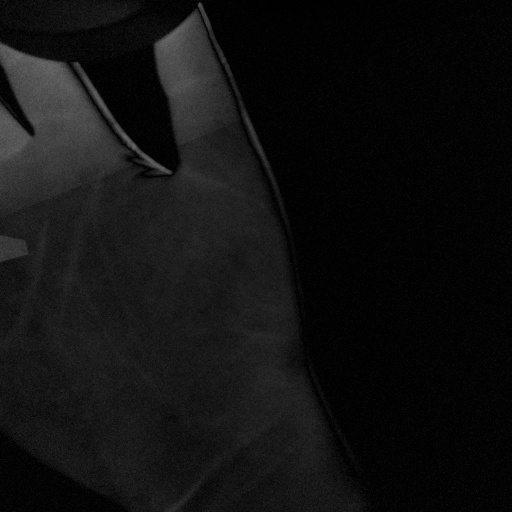
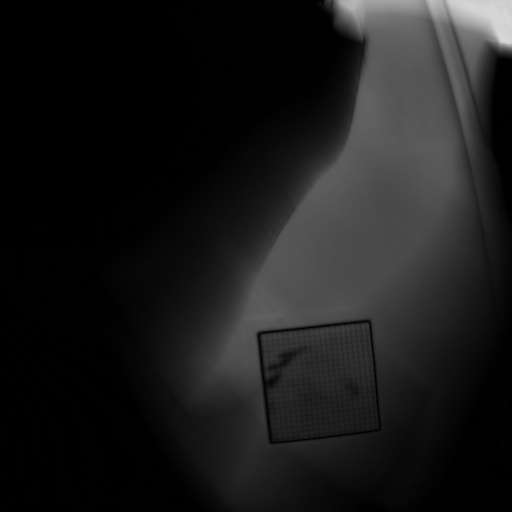
10.05.2023

diff --git a/camera.py b/camera.py
@@ -1,33 +1,39 @@
 from picamera import PiCamera
+from picamera.array import PiYUVArray
 from time import sleep
 import numpy as np
 import cv2
 import RPi.GPIO as GPIO
+from io import BytesIO
 
 
 def capture_and_diff(
-        *shutter_speed, num_photos=50, resolution=(1024, 1024), iso=800, wait_time=1, ):
+        *shutter_speed, num_photos=50, wait_time=1, resolution=(4056, 3040), iso=100):
     # 读取相机配置
+    # camera_preview()
     GPIO.setmode(GPIO.BCM)
     GPIO.setup(17, GPIO.OUT)
     camera = PiCamera()
     camera.iso = iso
+    camera.sensor_mode = 3  # Set sensor mode for 12-bit capture
     camera.resolution = resolution
+    camera.framerate = 10
+    camera.raw_format = 'yuv'  # Capture YUV data
     # Wait for the automatic gain control to settle
     sleep(2)
     # Now fix the values
+    # exposure time
     if not shutter_speed:
         camera.shutter_speed = camera.exposure_speed
     else:
         camera.shutter_speed = int(shutter_speed[0])
+
     camera.exposure_mode = 'off'
     print(camera.shutter_speed)
-     
 
     g = camera.awb_gains
     camera.awb_mode = 'off'
     camera.awb_gains = g
-    print(g)
     # 设置差异图像的累加器
     diff_accumulator = np.zeros(
         (camera.resolution[1], camera.resolution[0]), dtype=np.float32)
@@ -37,29 +43,46 @@ def capture_and_diff(
         # 拍摄第一张照片
         GPIO.output(17, GPIO.HIGH)
         sleep(wait_time)
-        prev_image = np.empty(
-            (camera.resolution[1], camera.resolution[0], 3), dtype=np.uint8)
-        camera.capture(prev_image, format='bgr')
-        gray1 = cv2.cvtColor(prev_image, cv2.COLOR_BGR2GRAY)
+
+        # Capture YUV data
+        yuv_data = np.empty(
+            (camera.resolution[1] * 3 // 2, camera.resolution[0]), dtype=np.uint8)
+        camera.capture(yuv_data, format='yuv', use_video_port=False)
+
         print("the", i, "picture, power off")
+        # Convert YUV data to grayscale using cv2.cvtColor
+        gray1 = cv2.cvtColor(yuv_data, cv2.COLOR_YUV2GRAY_I420)
+        # stream = BytesIO()
+
+
+        # camera.capture(stream, format='raw')  # Capture RAW data
+        # # Convert to numpy array
+        # data = np.frombuffer(stream.getvalue(), dtype=np.uint16)
+        # # Reshape array to match resolution
+        # data = data.reshape((camera.resolution[1], camera.resolution[0]))
+
+        # # Demosaic RAW Bayer data
+        # rgb = cv2.cvtColor(data, cv2.COLOR_BayerRG2RGB_EA)
+
+        # # Convert to grayscale
+        # gray1 = cv2.cvtColor(rgb, cv2.COLOR_RGB2GRAY)
+        cv2.imwrite('gray1.jpg', gray1)
         # 等待一段时间
-        sleep(wait_time)
 
         # 拍摄第二张照片
         GPIO.output(17, GPIO.LOW)
         sleep(wait_time)
-        current_image = np.empty(
-            (camera.resolution[1], camera.resolution[0], 3), dtype=np.uint8)
-        camera.capture(current_image, format='bgr')
-        gray2 = cv2.cvtColor(current_image, cv2.COLOR_BGR2GRAY)
+        camera.capture(yuv_data, format='yuv', use_video_port=False)
         print("the", i, "picture, power on")
-        sleep(wait_time)
+        # Convert YUV data to grayscale using cv2.cvtColor
+        gray2 = cv2.cvtColor(yuv_data, cv2.COLOR_YUV2GRAY_I420)
+        cv2.imwrite('gray2.jpg', gray2)
+
         # 计算两张照片的差异图像
         diff_image = cv2.absdiff(gray1, gray2)
 
         # 将差异图像叠加到累加器中
         diff_accumulator += diff_image.astype(np.float32)
-
     # 计算平均差异图像
     average_diff_image = (diff_accumulator / num_photos).astype(np.uint8)
     cv2.imwrite("average_diff_image.jpg", average_diff_image)

diff --git a/GUI_v2.0.py b/GUI_v2.0.py
@@ -7,9 +7,8 @@ from tkinter import *
 from tkinter import ttk
 from PIL import Image
 from PIL import ImageTk
-import webbrowser
 
-from picamera import PiCamera
+import picamera 
 import time
 import numpy as np
 import cv2
@@ -67,12 +66,16 @@ class Application(Frame):
 
         # Create the exit button
         self.btnQuit = Button(self, text="Quit", height=2, width=26,
-                              font=(10),command=root.destroy)
+                              font=(10),command=root.destroy)\
+                              
+        self.camera = Button(self, text="Test Camera", height=2, width=26,
+                              font=(10),command=self.camera_preview)
 
         # Use Grid Geometry Manager to place widgets
         self.label01.grid(column=0,row=0,columnspan=3,pady=40)
         self.btnStart.grid(column=2,row=5,columnspan=2,pady=20)
-        self.btnQuit.grid(column=2,row=6,columnspan=2,sticky=S,pady=20)
+        self.camera.grid(column=2,row=6,columnspan=2)
+        self.btnQuit.grid(column=2,row=7,columnspan=2,sticky=N)
         self.OptM.grid(column=3,row=1,columnspan=2)
         Label(self, text="Operation Mode: ").grid(column=2,row=1,sticky=W,pady=20)
         self.entry_pairs.grid(column=3,row=2)
@@ -87,7 +90,7 @@ class Application(Frame):
               ", Zhengdao Zhou, Bhargav Ashok, Balaji R, Andrew Leong",
               fg="Grey", font=("Times", 8)).grid(column=0,row=7,sticky=W)
         
-        self.rowconfigure(6,weight=1)
+        self.rowconfigure(7,weight=1)
 
 
     def Entry_able(self,root):
@@ -104,16 +107,27 @@ class Application(Frame):
     def Start(self):
         global photo_diff
         if self.OperationMode.get() == "Auto":
-            capture_and_diff(wait_time=1, iso=800)
+            capture_and_diff()
         else:
             capture_and_diff(num_photos=int(self.entry_pairs.get()), 
-                                iso=int(self.entry_iso.get()), wait_time=1, 
+                                iso=int(self.entry_iso.get()), 
                                 resolution=eval(self.entry_resolution.get()))
         photo_diff = Image.open("average_diff_image.jpg")
         photo_diff = ImageTk.PhotoImage(photo_diff.resize((500, 300)))
         self.label02["image"]=photo_diff
         self.label02.grid(column=0, row=1,columnspan=2,rowspan=6,pady=20)
-
+    
+    def camera_preview(self):
+        with picamera.PiCamera() as camera:
+            # 设置预览分辨率
+            camera.resolution = (500, 300)
+            # 打开预览
+            camera.start_preview(fullscreen=False, window=(7,130,500,300))
+            # 延时
+            time.sleep(5)
+            # 关闭预览
+            camera.stop_preview()
+            
 
 
 if __name__ == "__main__":

diff --git a/camera_class.py b/camera_class.py
@@ -1,0 +1,76 @@
+
+from picamera import PiCamera
+from time import sleep
+import numpy as np
+import cv2
+import RPi.GPIO as GPIO
+from io import BytesIO
+
+
+class Camera_class:
+    def __init__(self, shutter_speed, num_photos, wait_time, iso, resolution, gain):
+        self.num_photos = num_photos
+        self.wait_time = wait_time
+        self.resolution = resolution
+        self.iso = iso
+        self.camera = PiCamera()
+        self.camera.exposure_mode = 'off'
+        self.camera.shutter_speed = shutter_speed
+        self.camera.awb_mode = 'off'
+        self.camera.awb_gains = gain
+        self.capture_and_diff()
+
+    def capture_and_diff(self):
+        # 读取相机配置
+        GPIO.setmode(GPIO.BCM)
+        GPIO.setup(17, GPIO.OUT)
+        # 设置差异图像的累加器
+        diff_accumulator = np.zeros(
+            (self.camera.resolution[1], self.camera.resolution[0]), dtype=np.float32)
+
+        # 拍照并计算差异图像
+        for i in range(self.num_photos):
+            # 拍摄第一张照片
+            GPIO.output(17, GPIO.HIGH)
+            print("wait", self.wait_time, "seconds to power on")
+            sleep(self.wait_time)
+``
+            stream = BytesIO()
+            self.camera.capture(stream, format='raw', bayer=True)
+            stream.seek(0)
+            data = stream.getvalue()
+            print(data)
+            print(len(data))
+            width = self.resolution[0]
+            height = self.resolution[1]
+            img = np.frombuffer(data, dtype=np.uint16).reshape(
+                height, width)
+            gray1 = cv2.cvtColor(img, cv2.COLOR_BAYER_RG2GRAY)
+
+            print("the", i, "picture")
+            print("wait the camera exposure")
+            # 等待一段时间
+            sleep(self.camera.shutter_speed / 1000000)
+
+            # 拍摄第二张照片
+            GPIO.output(17, GPIO.LOW)
+            print("wait", self.wait_time, "seconds")
+            sleep(self.wait_time)
+            stream = BytesIO()
+            self.camera.capture(stream, format='raw', bayer=True)
+            stream.seek(0)
+            data = stream.getvalue()
+
+            width = self.resolution[0]
+            height = self.resolution[1]
+            img = np.frombuffer(data, dtype=np.uint16).reshape(
+                height, width)
+            gray2 = cv2.cvtColor(img, cv2.COLOR_BAYER_RG2GRAY)
+            print("the", i, "picture, power on")
+            print("wait the camera exposure")
+            sleep(self.camera.shutter_speed / 1000000)
+
+            # 计算两张照片的差异图像
+            diff_image = cv2.absdiff(gray1, gray2)
+
+            # 将差异图像叠加到累加

diff --git a/main.py b/main.py
@@ -1,24 +1,46 @@
-from Camera import capture_and_diff
+from camera_class import Camera_class
+from picamera import PiCamera
+from time import sleep
 if __name__ == '__main__':
-    mode = input("auto mode or manual mode: ")
+    print("Calibration process wait 2s")
+    
+    camera = PiCamera()
+    sleep(2)
+    resolution = camera.resolution
+    iso = camera.iso
+    speed = camera.exposure_speed
+    light_gain = camera.awb_gains
+    num = input("input the number of samples: ")
+    num = 50 if num == "" else int(num)
+    wait = input("input waiting time(s): ")
+    wait = 1 if wait == "" else int(wait)
+    print("resolution: ",resolution)
+    print("iso: ", iso)
+    print("speed: ", speed)
+    print("light_gain: ",light_gain)
+    camera.close()
+    mode = input("done, please select auto mode or manual mode: ")
+
     if mode == "auto":
-        wait = int(input("input waiting time: "))
-        iso = int(input("input iso (0 ~ 800): "))
-        capture_and_diff(wait_time=wait, iso=iso)
+        # wait = int(input("input waiting time: "))
+        # iso = int(input("input iso (0 ~ 800): "))
+        Camera_class(shutter_speed=speed,
+                     num_photos=num,
+                     iso=iso,
+                     resolution=resolution,
+                     wait_time=wait,
+                     gain = light_gain)
 
     else:
-        num = input("input the number of samples: ")
-        num = 50 if num == "" else int(num)
+
         iso = input("input iso (0 ~ 800): ")
         iso = 800 if iso == "" else int(iso)
-        wait = input("input waiting time(s): ")
-        wait = 1 if wait == "" else int(wait)
-        res = input("resolution(512,512): ")
-        res = (512,512) if res== "" else eval(res)
-        speed = input("input shutter_speed(us): ")
-        if speed == "":
-            capture_and_diff(
-                num_photos=num, iso=iso, wait_time=wait, resolution=res)
-        else:
-            capture_and_diff(
-                int(speed), num_photos=num, iso=iso, wait_time=wait, resolution=res)
+        res = input("max resolution(4272,2848): ")
+        res = (512, 512) if res == "" else eval(res)
+        speed = input("input shutter_speed(us) max 35000: ")
+        Camera_class(shutter_speed=int(speed),
+                     num_photos=num,
+                     iso=iso,
+                     resolution=res,
+                     wait_time=wait,
+                     gain = light_gain)

diff --git a/main_test.py b/main_test.py
@@ -1,0 +1,25 @@
+from Camera import capture_and_diff
+if __name__ == '__main__':
+
+    mode = input("auto mode or manual mode: ")
+    if mode == "auto":
+        wait = int(input("input waiting time: "))
+        iso = int(input("input iso (0 ~ 800): "))
+        capture_and_diff(wait_time=wait, iso=iso)
+
+    else:
+        num = input("input the number of samples: ")
+        num = 50 if num == "" else int(num)
+        iso = input("input iso (0 ~ 800): ")
+        iso = 800 if iso == "" else int(iso)
+        wait = input("input waiting time(s): ")
+        wait = 1 if wait == "" else int(wait)
+        res = input("resolution(4056, 3040): ")
+        res = (512,512) if res== "" else eval(res)
+        speed = input("input shutter_speed(us) max 100000: ")
+        if speed == "":
+            capture_and_diff(
+                num_photos=num, iso=iso, wait_time=wait, resolution=res)
+        else:
+            capture_and_diff(
+                int(speed), num_photos=num, iso=iso, wait_time=wait, resolution=res)

diff --git a/Test.py b/Test.py
@@ -1,4 +1,22 @@
-from Camera import capture_and_diff
+from picamera import PiCamera
+from time import sleep
+camera = PiCamera()
+camera.exposure_mode = 'off'
+camera.shutter_speed = 4000000
+camera.iso = 800
+camera.resolution = (1024,1024)
+camera.capture("test1.jpg")
+print("off")
+sleep(5)
 
-capture_and_diff(
-            40000, num_photos=2, iso=800, wait_time=1, resolution=(512,512))
+camera.capture("test2.jpg")
+camera.close()
+
+# with picamera.PiCamera() as camera:
+#     # 设置预览分辨率
+#     camera.resolution = (640, 480)
+#     # 打开预览
+#     camera.start_preview()
+#     # 延时
+#     while True:
+#         pass

diff --git a/Preview.py b/Preview.py
@@ -1,0 +1,13 @@
+import picamera
+def camera_preview():
+    with picamera.PiCamera() as camera:
+        # 设置预览分辨率
+        camera.resolution = (640, 480)
+        # 打开预览
+        camera.start_preview()
+        # 延时
+        while True:
+            if input("Press any key to stop preview..."):
+                break
+        # 关闭预览
+        camera.stop_preview()
